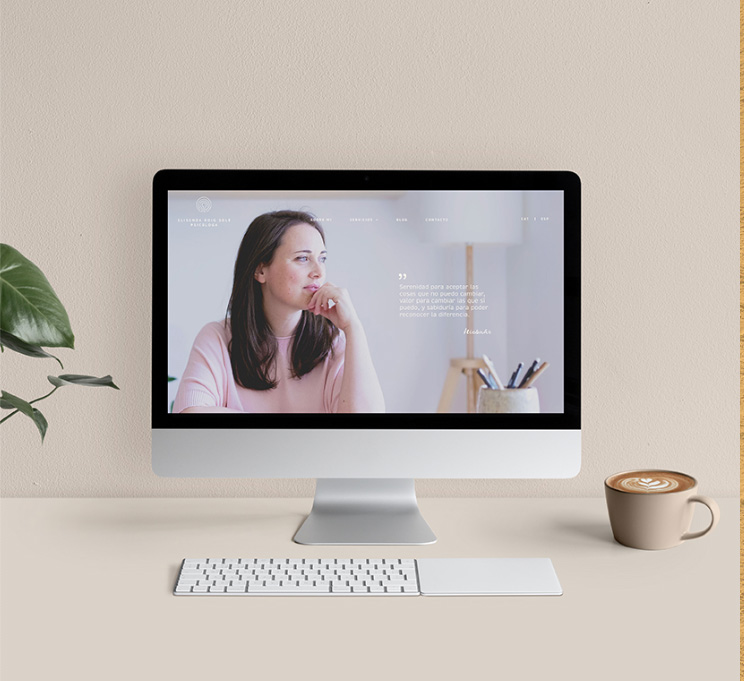
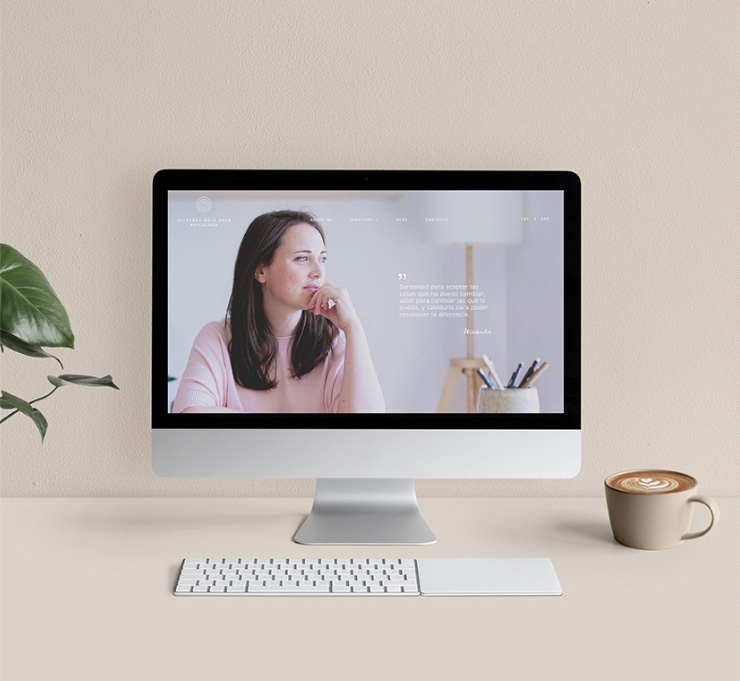
modifique diseño home

diff --git a/index.html b/index.html
@@ -36,10 +36,12 @@
     <h2 id="parte1">Creatividad y Estrategia</h2>
     <section class="contenedor1">
         <div class="item1"><h3>Identidad Corporativa</h3><br>
-            <p>Lorem ipsum dolor sit amet consectetur adipisicing elit. Commodi iste placeat officiis veritatis necessitatibus eos fugit ea quo natus eveniet debitis, magnam eum itaque expedita eius inventore illum nostrum praesentium. Lorem ipsum dolor sit amet consectetur adipisicing elit. Commodi iste placeat officiis veritatis necessitatibus eos fugit ea quo natus eveniet debitis, magnam eum itaque expedita eius inventore illum nostrum praesentium.</p>
-            <a href="pages/servicios.html" class="mas-info">Más info</a>
+                <p>Lorem ipsum dolor sit amet consectetur adipisicing elit. Commodi iste placeat officiis veritatis 
+                    necessitatibus eos fugit ea quo natus eveniet debitis, magnam eum itaque expedita eius inventore illum nostrum praesentium. Lorem ipsum dolor sit amet consectetur adipisicing elit. Commodi iste placeat officiis veritatis necessitatibus eos fugit ea quo natus eveniet debitis, magnam eum itaque expedita eius inventore illum nostrum praesentium.</p>
+                    <a href="pages/servicios.html" class="mas-info">Más info</a>
+            </div>
         </div>
-        <div class="item2"><h3>Diseño web</h3><br>
+        <div class="item2"><h3>Diseños web</h3><br>
             <p>Lorem ipsum dolor sit amet consectetur adipisicing elit. Commodi iste placeat officiis veritatis necessitatibus eos fugit ea quo natus eveniet debitis, magnam eum itaque expedita eius inventore illum nostrum praesentium. Lorem ipsum dolor sit amet consectetur adipisicing elit. Commodi iste placeat officiis veritatis necessitatibus eos fugit ea quo natus eveniet debitis, magnam eum itaque expedita eius inventore illum nostrum praesentium.</p>
         <a href="pages/servicios.html" class="mas-info">Más info</a>
     </div>
@@ -48,15 +50,7 @@
             <a href="pages/servicios.html" class="mas-info">Más info</a>
         </div>
     </section>
-
-    <h2 id="parte2">¡Inspirate!</h2>
-    <section class="contenedor2">
-        <div class="imagen1"><img src="imagenes/IMG1.jpg" alt="imagen1"></div>
-        <div class="imagen2"><img src="imagenes/IMG2.jpg" alt="imagen2"></div>
-        <div class="imagen3"><img src="imagenes/IMG3.jpg" alt="imagen3"></div>
-        <div class="imagen4"><img src="imagenes/IMG4.jpg" alt="imagen4"></div>
-
-    </section>
+    
     <footer>
         <p>Copyright © 2022 bsdg · Diseñadora gráfica y web freelance</p>
         <div class="redes">

diff --git a/estilos.css b/estilos.css
@@ -114,6 +114,10 @@ main{
     margin-left: 60px;
     line-height: 25px;
 }
+.item1 img {
+    width: 100px;
+    height: 100px;
+}
 .item1 p{
     color: black;
     text-align: left;
@@ -186,34 +190,9 @@ main{
 #parte2{
     color: rgb(180, 217, 207);
     font-family: roboto, sans-serif;
-    font-weight:400;
+    font-weight: 400;
     font-size: 40px;
-    padding: 60px;
-}
-.contenedor2{
-    height: 450px;
-    width: 100%;
-    display: flex;
-}
-.imagen1{
-    height: 400px;
-    width: 400px;
-    display: flex;
-}
-.imagen2{
-    height: 400px;
-    width: 400px;
-    display: flex;
-}
-.imagen3{
-    height: 400px;
-    width: 400px;
-    display: flex;
-}
-.imagen4{
-    height: 400px;
-    width: 400px;
-    display: flex;
+    padding: 40px;
 }
 .form, .contacto{
     width: 600px;
@@ -300,7 +279,7 @@ main{
     margin-top: 20px;
 }
 .info_ic .ic, .info_web .web {
-    color: gray;
+    color:  rgb(112, 196, 167);
     text-align: left;
     font-family: roboto, sans-serif;
     font-weight:400;
@@ -311,10 +290,13 @@ main{
 footer{
     background-color: rgb(112, 196, 167);
     color: white;
-    text-align: center;
     font-size: 20px;
     font-family: Roboto, sans-serif;
-    padding: 20px;
+    padding-block: 2rem;
+    padding-inline: 6rem;
+    display: flex;
+    justify-content: space-between;
+    max-width: 100%;
 }
 footer p{
     margin-bottom: 20px;
